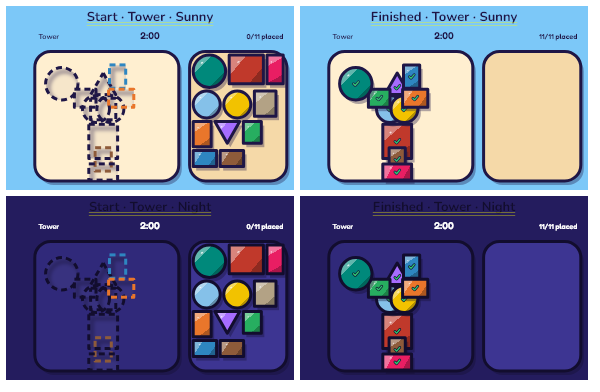
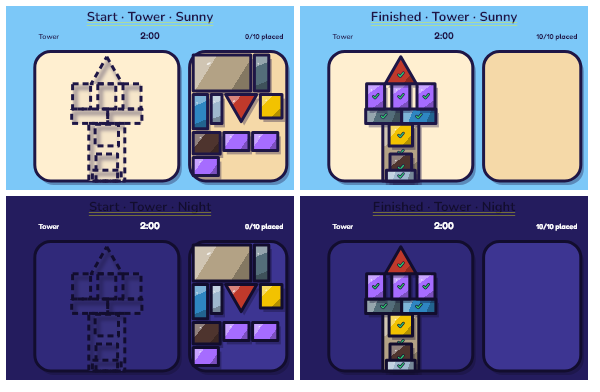
Swap the Hard dragon, tower and tractor for the owner's picks (B-012)

diff --git a/packages/puzzle_game/test/hard_swap_test.dart b/packages/puzzle_game/test/hard_swap_test.dart
@@ -1,0 +1,64 @@
+import 'package:flutter_test/flutter_test.dart';
+import 'package:puzzle_game/puzzle_game.dart';
+
+import 'support/library_files.dart';
+
+/// The owner's picks for the three redone Hard pictures (M14 bugs8, B-012):
+/// each puzzle's piece ids in drawing order, as the library files ship them.
+/// A swap changes a picture and nothing about it — the id, the name, the level
+/// and the index's Hard order stay as they were.
+const pieces = {
+  'dragon': ['tail', 'wing', 'back leg', 'haunch', 'body', 'front leg', 'neck', 'head', 'jaw', 'horn'],
+  'tower': [
+    'body',
+    'band left',
+    'band right',
+    'tooth left',
+    'tooth middle',
+    'tooth right',
+    'roof',
+    'door',
+    'window',
+    'step',
+  ],
+  'tractor': [
+    'grille',
+    'bonnet',
+    'chassis',
+    'exhaust',
+    'cab',
+    'front window',
+    'roof',
+    'fender',
+    'front wheel',
+    'rear wheel',
+  ],
+};
+
+/// The name each swapped picture keeps, as the app lists it.
+const names = {'dragon': 'Dragon', 'tower': 'Tower', 'tractor': 'Tractor'};
+
+void main() {
+  test('the three redone Hard puzzles ship the owner\'s pick, piece by piece in drawing order', () {
+    for (final MapEntry(key: id, value: ids) in pieces.entries) {
+      final puzzle = loadPuzzle(id);
+      expect(puzzle.pieces.map((piece) => piece.id), ids, reason: id);
+    }
+  });
+
+  test('each swapped puzzle keeps its id, name and Hard level, and the index keeps the Hard order', () {
+    for (final MapEntry(key: id, value: name) in names.entries) {
+      final puzzle = loadPuzzle(id);
+      expect(puzzle.id, id, reason: id);
+      expect(puzzle.name, name, reason: id);
+      expect(puzzle.level, Level.hard, reason: id);
+    }
+    expect(
+      [
+        for (final puzzle in puzzleLibrary())
+          if (puzzle.level == Level.hard) puzzle.id,
+      ],
+      ['dragon', 'windmill', 'lighthouse', 'dinosaur', 'tractor', 'tower'],
+    );
+  });
+}

diff --git a/packages/puzzle_game/lib/src/tray.dart b/packages/puzzle_game/lib/src/tray.dart
@@ -8,6 +8,11 @@ import 'puzzle.dart';
 /// pieces' extent on each side.
 const trayGap = 2.0;
 
+/// How far past the tray's edge a box may end and still fit: a tray sized to its
+/// row is `right + trayGap` wide, and `(right + trayGap) - trayGap` can differ
+/// from `right` by float rounding.
+const _fitSlack = 1e-9;
+
 /// Packs pieces into a tray [width] wide, tallest box first, in rows from the
 /// left with a gap of [trayGap] at the edges and between rows. Each piece
 /// after the first in a row starts [overlap] of the previous box's width
@@ -88,7 +93,7 @@ const trayGap = 2.0;
       var wrap = false;
       var o = overlap;
       place = leftAt(o);
-      var check = place.dx + box.width > width - trayGap;
+      var check = place.dx + box.width > width - trayGap + _fitSlack;
       while (!check) {
         final result = hideAt(i, place);
         if (!result.tooMuch) {
@@ -103,7 +108,7 @@ const trayGap = 2.0;
         }
         o = max(0, o - 0.05);
         place = leftAt(o);
-        check = place.dx + box.width > width - trayGap;
+        check = place.dx + box.width > width - trayGap + _fitSlack;
       }
       if (check) {
         wrap = true;

diff --git a/packages/puzzle_game/test/tray_edge_fit_test.dart b/packages/puzzle_game/test/tray_edge_fit_test.dart
@@ -1,0 +1,25 @@
+import 'package:flutter_test/flutter_test.dart';
+import 'package:puzzle_game/puzzle_game.dart';
+
+import 'support/match_helpers.dart';
+
+/// A tray sized to its row is `right + trayGap` wide, and `(right + 2) - 2` is
+/// not always `right` in floating point: a row that ends exactly at the edge
+/// must still count as fitting (b012c, the redone tower at phone seed 15).
+void main() {
+  test('a row that ends exactly at the tray edge stays one row, whatever the float rounding', () {
+    final puzzle = load('tower');
+    for (var seed = 0; seed < 40; seed++) {
+      final layout = SplitLayout.of(puzzle, seed, target: LayoutTarget.phones);
+      final field = layout.left;
+      final packed = packTray(
+        puzzle,
+        layout.angles,
+        field.tray.width,
+        overlap: field.trayOverlap,
+        scale: field.trayScale,
+      );
+      expect({for (final at in packed.at.values) at.dy}, hasLength(1), reason: 'tower seed $seed: more than one row');
+    }
+  });
+}

diff --git a/packages/puzzle_game/test/tray_packing_test.dart b/packages/puzzle_game/test/tray_packing_test.dart
@@ -68,9 +68,9 @@ void main() {
     /// tray is about 80 units wide, and `tray_pile_test.dart` holds the
     /// players' promise of half there). The packer's rule — a piece covers at
     /// most half of the box before it — leaves a piece whose box is mostly
-    /// shape, such as the dragon's front leg or the tractor's ground, under a
-    /// half in the narrowest one: 0.524 and 0.471 at the seeds below (b013).
-    const visibleShare = 0.45;
+    /// shape under a half in the narrowest one: the lowest is the lighthouse's
+    /// tower top, 0.518 at the seeds below, so the floor is 0.50 (b012c).
+    const visibleShare = 0.50;
 
     test('every packed piece keeps about half of itself visible, each one covers at most half the box before it, the '
         'boxes stay in the tray and the height covers them all', () {

diff --git a/packages/puzzle_game/test/split_layout_test.dart b/packages/puzzle_game/test/split_layout_test.dart
@@ -233,7 +233,8 @@ void main() {
     /// than 1.3:1 with none need no overlap; the boat's, car's, castle's and
     /// butterfly's rows overlap, and so do the robot's and train's on the seeds
     /// whose widest piece wants the room. Every Hard puzzle but the lighthouse
-    /// overlaps on every seed (b013). Checked for every seed below.
+    /// overlaps on every seed (b013); the redone tower needs no overlap on any
+    /// seed checked (b012c). Checked for every seed below.
     const overlaps = {
       'house': [0.0],
       'rocket': [0.0],
@@ -252,7 +253,7 @@ void main() {
       'lighthouse': [0.0],
       'dinosaur': [0.25],
       'tractor': [0.25],
-      'tower': [0.25],
+      'tower': [0.0],
     };
 
     /// The picture a phones board holds: every outline's box at its target

diff --git a/docs/briefs/m14/bugs8/b012c-1-hard-swap-report.md b/docs/briefs/m14/bugs8/b012c-1-hard-swap-report.md
@@ -1,0 +1,127 @@
+# M14 bugs8 b012c-1-hard-swap report
+
+## Summary
+The three Hard pictures the owner picked now ship: `dragon.json` is candidate a (a standing dragon
+facing right), `tower.json` candidate b (a tower under a pointed roof), `tractor.json` candidate a
+(a farm tractor facing left). Each file is the candidate, byte for byte, except its `notes`: one
+sentence saying what the picture is, with the proposal / candidate / job-folder sentences dropped.
+`index.json` is unchanged, so the ids, names, level and Hard order stay as they were.
+
+Test first: the new `packages/puzzle_game/test/hard_swap_test.dart` pins each puzzle's piece ids in
+drawing order, plus id, name, Hard level and the index's Hard order. It failed on the old library
+(1 passed, 1 failed: dragon "at location [0] is 'body' instead of 'tail'") and passes now (2 passed).
+
+Checks: `format` PASS; `host` 447 passed; `phone` 464 passed; **`puzzle` 439 passed, 1 failed** —
+`split_layout_test` "phones layout every puzzle and seed puts the tray on top …" at tower seed 15:
+the pieces wrap to two rows (28.5) in a one-row tray (19.0). That is **Blocked** (see below): the
+new tower's row ends 2e-14 past `tray.width - trayGap` because the layout sizes the tray as
+`right + trayGap` and `(right + 2) - 2` is not `right` in floating point. The fix belongs in
+`lib/src/split_layout.dart` or `lib/src/tray.dart`, which are outside this job's `allow`.
+
+Pins changed (old → new), all in `packages/puzzle_game/test`:
+- `split_layout_test.dart` `overlaps['tower']`: `[0.25]` → `[0.0]`; the doc comment no longer says
+  every Hard puzzle but the lighthouse overlaps on every seed.
+- `tray_packing_test.dart` `visibleShare`: `0.45` → `0.50`; the comment named the old dragon's front
+  leg (0.524) and tractor's ground (0.471) and now names the lighthouse's `tower top`, 0.518 (seed 0,
+  flat, width 19.0), the lowest piece in the library.
+- No other pin named the old shapes: `hard_library_test`, `library_test` and `rules_test`'s Hard
+  lists are ids and order only, and the Medium/Hard limit tests build their own puzzles.
+
+`docs/code-health.md`: the tray-packing entry now carries the new numbers and says the three redone
+trays are unmeasured on a device, keeping the device-look recommendation.
+
+## Kit used
+`tools/level.sh` is refused by this sandbox (as the brief says), so I ran the commands the kit
+prints, from `packages/puzzle_game`:
+- `flutter test --dart-define=puzzleId=dragon test/puzzle_check_test.dart test/puzzle_schema_test.dart`
+  → `+4: All tests passed!` (the same for `tower` and `tractor`, `+4` each).
+- `flutter test --dart-define=puzzleId=dragon test/puzzle_render_test.dart`
+  → `wrote ../../docs/design/puzzles/dragon.png (81724 bytes)` / `All tests passed!`
+- `… puzzleId=tower …` → `wrote ../../docs/design/puzzles/tower.png (46891 bytes)`.
+- `… puzzleId=tractor …` → `wrote ../../docs/design/puzzles/tractor.png (54738 bytes)`.
+
+## Blocked
+`packages/puzzle_game/test/split_layout_test.dart`, "phones layout every puzzle and seed puts the
+tray on top with the crop centred below, and the pieces pack into the tray as wide as it is, a tray
+gap apart where the row does not overlap": tower **seed 15** (`Expected: a value less than or equal
+to <19.000000001000007>, Actual: <28.500000000000007>`, "the pieces overflow the tray by 9.5"); a
+probe of seeds 16–19 shows **seed 18** the same. Root cause, measured: the tower's one-row tray is
+127.24038105676658 wide, so its limit for the last box is 125.24038105676658, and the row's last
+right edge (`tooth right`, dx 114.7403810567666 + 10.5) is 125.2403810567666, 1.4e-14 over, so
+`packTray` wraps that piece into a second row. `_packedTray` sizes the tray as `right + trayGap` and
+`packTray` compares against `width - trayGap`, and the round trip loses an ulp at this magnitude.
+The old tower never landed on the boundary; this picture does. It is a lib change (outside
+`allow`), e.g. give `_packedTray` a hair of slack (`right + 2 * trayGap`) or compare with an
+epsilon in `packTray`, and the app would show the same two rows at those seeds. The tower's own pin
+is `[0.0]` because every seed checked needs no overlap; nothing else in the suite fails.
+
+## Computed values
+- Tray packing, lowest visible share over the library, seeds 0–19, three widths: the lighthouse's
+  `tower top`, **0.518** at seed 0, flat, width 19.0 (first piece under 0.55; 0.52 passes, 0.53
+  fails). The floor is 0.50, i.e. the lowest multiple of 0.05 under the observed minimum, the same
+  step the old 0.45 used under 0.471.
+- Tower phone row: 127.24038105676658 wide at every seed, 19.0 high in one row; the world is
+  131.24 × 102.00 units (aspect 1.287, under the 1.3 that would ask for overlap), and the smallest
+  piece is 17.09 units (9.97 mm at 667×375).
+
+## Decisions
+- **`notes` in one sentence each**, dragon "A dragon seen from the side…", tower "A castle tower
+  under a pointed red roof…", tractor "A farm tractor seen from the side…": the brief asks what the
+  picture is and nothing about proposals, so the candidate/job-folder sentences went.
+- **`overlaps['tower']` is `[0.0]`, not `[0.0, 0.25]`**: no seed checked needed an overlap; listing
+  0.25 unobserved would loosen the pin. Seeds 0–17 were seen; 18 fails on the wrap and 19 is
+  unobserved (the suite stops at the first failure).
+- **Floor 0.50 rather than 0.55**: 0.55 is where the lighthouse's `tower top` fails, and the old
+  floor was set one step under the minimum, so 0.50 keeps that intent without weakening it.
+- **The failing split-layout test stays as written**: it is a rule ("the pieces fit their tray") and
+  the failure is a real 1-ulp layout bug, reported rather than papered over with a tolerance.
+
+## Self-check (review-rules part A)
+1. **Every host setup** — the swapped puzzles run on both hosts through the same `PuzzleGame` and
+   `SplitLayout`; no host-specific code, setting or test was touched, and the phone and host suites
+   are green (464 and 447).
+2. **When kept state starts and ends** — nothing new is kept: only the piece data changed. The start
+   angles still come from `compactStartAngles` per seed, and the phone layout's angles are the ones
+   the split match uses (proved by the existing split tests, which pass).
+3. **How a new state combines with the others** — no state, input, pause or round change; a puzzle
+   is still a data file with no code.
+4. **Your folder only** — yes: the three puzzle JSONs, three design sheets, the new test, the two
+   pin edits, `docs/code-health.md` and this report. `index.json`, `lib/`, the schema and every
+   other PNG are untouched; the design sheets that were already modified at the start were
+   rewritten byte-identically by the suite run (same file list as before the job: the 12 puzzle
+   sheets plus the four `m13-*`, minus my three).
+5. **Stop rather than overstep** — I did not edit `lib/` to fix the tray width, did not add a
+   tolerance to a failing rule, and did not touch `index.json` or `docs/levels.md`.
+
+## Hand-over
+- **Fix the tray-width ulp** (Blocked above), then re-run `tools/check.sh puzzle`; the tower pin may
+  then need seeds 19 (and 15/18 once they pack) re-checked for an overlap of 0.25.
+- **Look at the three sheets** (`docs/design/puzzles/{dragon,tower,tractor}.png`, rewritten) on the
+  smallest phone: the new pieces' tray is unmeasured on a device.
+- The old Hard best times still sit beside the redone boards (already tracked, B-012).
+
+## Questions and suggestions
+1. Should `_packedTray` get the slack fix in a follow-up job, with the tower's overlap map
+   re-verified over all 20 seeds? That is the one thing this swap could not close.
+2. `docs/levels.md` could mention that a very wide tray row (127 units here, over a 47-wide board)
+   is valid for the phone layout, since the world follows the tray, not the board.
+
+## Commit message
+Swap in the owner's picks for the Hard dragon, tower and tractor
+
+Replace the three Hard pictures with the owner's picks: dragon candidate a
+(a standing dragon facing right), tower candidate b (a pointed roof over
+the battlements) and tractor candidate a (a farm tractor facing left).
+Each file is the candidate as checked, with one sentence of notes; ids,
+names, level and the index's Hard order are unchanged. A new
+hard_swap_test pins each puzzle's piece ids in drawing order and failed on
+the old files first. Two pins follow the new shapes: the tower needs no
+tray overlap, and the visible-share floor rises from 0.45 to 0.50 because
+the lowest piece is now the lighthouse's tower top at 0.518. The tower's
+15th seed trips a one-ulp tray width in split_layout (open).
+
+## Status row
+Hard swap (dragon/tower/tractor to the owner's picks): files, notes, sheets, pins and the code-health entry done, host and phone green — open: `split_layout_test` tower seed 15 (and 18) overflow the tray by one row, a one-ulp tray width in `_packedTray` outside this job's allow.
+
+## Delete
+- none

diff --git a/docs/code-health.md b/docs/code-health.md
@@ -103,7 +103,7 @@ The "could" findings of [bugs1's review](briefs/m14/bugs1/REVIEW.md) that the fi
 - **party_host tests**: `controller_menus_test.dart:143` uses a bare 24 press count; name it or count the buttons.
 - **puzzle_game (messages)**: Medium's big-piece message reads `Mark 1 or 2 pieces "big".`; restore "one or two" if the wording matters.
 - **metrics**: the recorder's `player_result` path (moving/placing seconds) has no party_host test; add one before the next metrics change.
-- **puzzle_game (tray packing)**: the tray-packing test's visible-share floor was lowered from 0.55 to 0.45 in b013 because two Hard pieces (the dragon's front leg 0.524, the tractor's ground 0.471) sit under 0.55 in the narrowest made-up tray. Risk: a Hard piece partly hidden in a very narrow tray. Rec.: a device look at Hard dragon and tractor on the smallest phone, or reshape those pieces; the Medium butterfly also loses its mirror on the 852 px phone (pinned in mirror_pad_test).
+- **puzzle_game (tray packing)**: the tray-packing test's visible-share floor is 0.50 (raised from 0.45 in b012c) because the lowest piece is now the lighthouse's `tower top`, 0.518 in the narrowest made-up tray (seed 0, flat, width 19); every piece of the redone dragon, tower and tractor sits above it. Risk: a Hard piece partly hidden in a very narrow tray. Rec.: a device look at the three redone Hard pictures on the smallest phone — their tray is unmeasured on a device — or reshape a piece that reaches the floor; the Medium butterfly also loses its mirror on the 852 px phone (pinned in mirror_pad_test).
 - **party_host (best times)**: the old Medium best times stay beside the redone boards and cannot be compared; owner decision whether to clear the six Medium boards once (tracker B-012).
 
 ## Before a milestone
